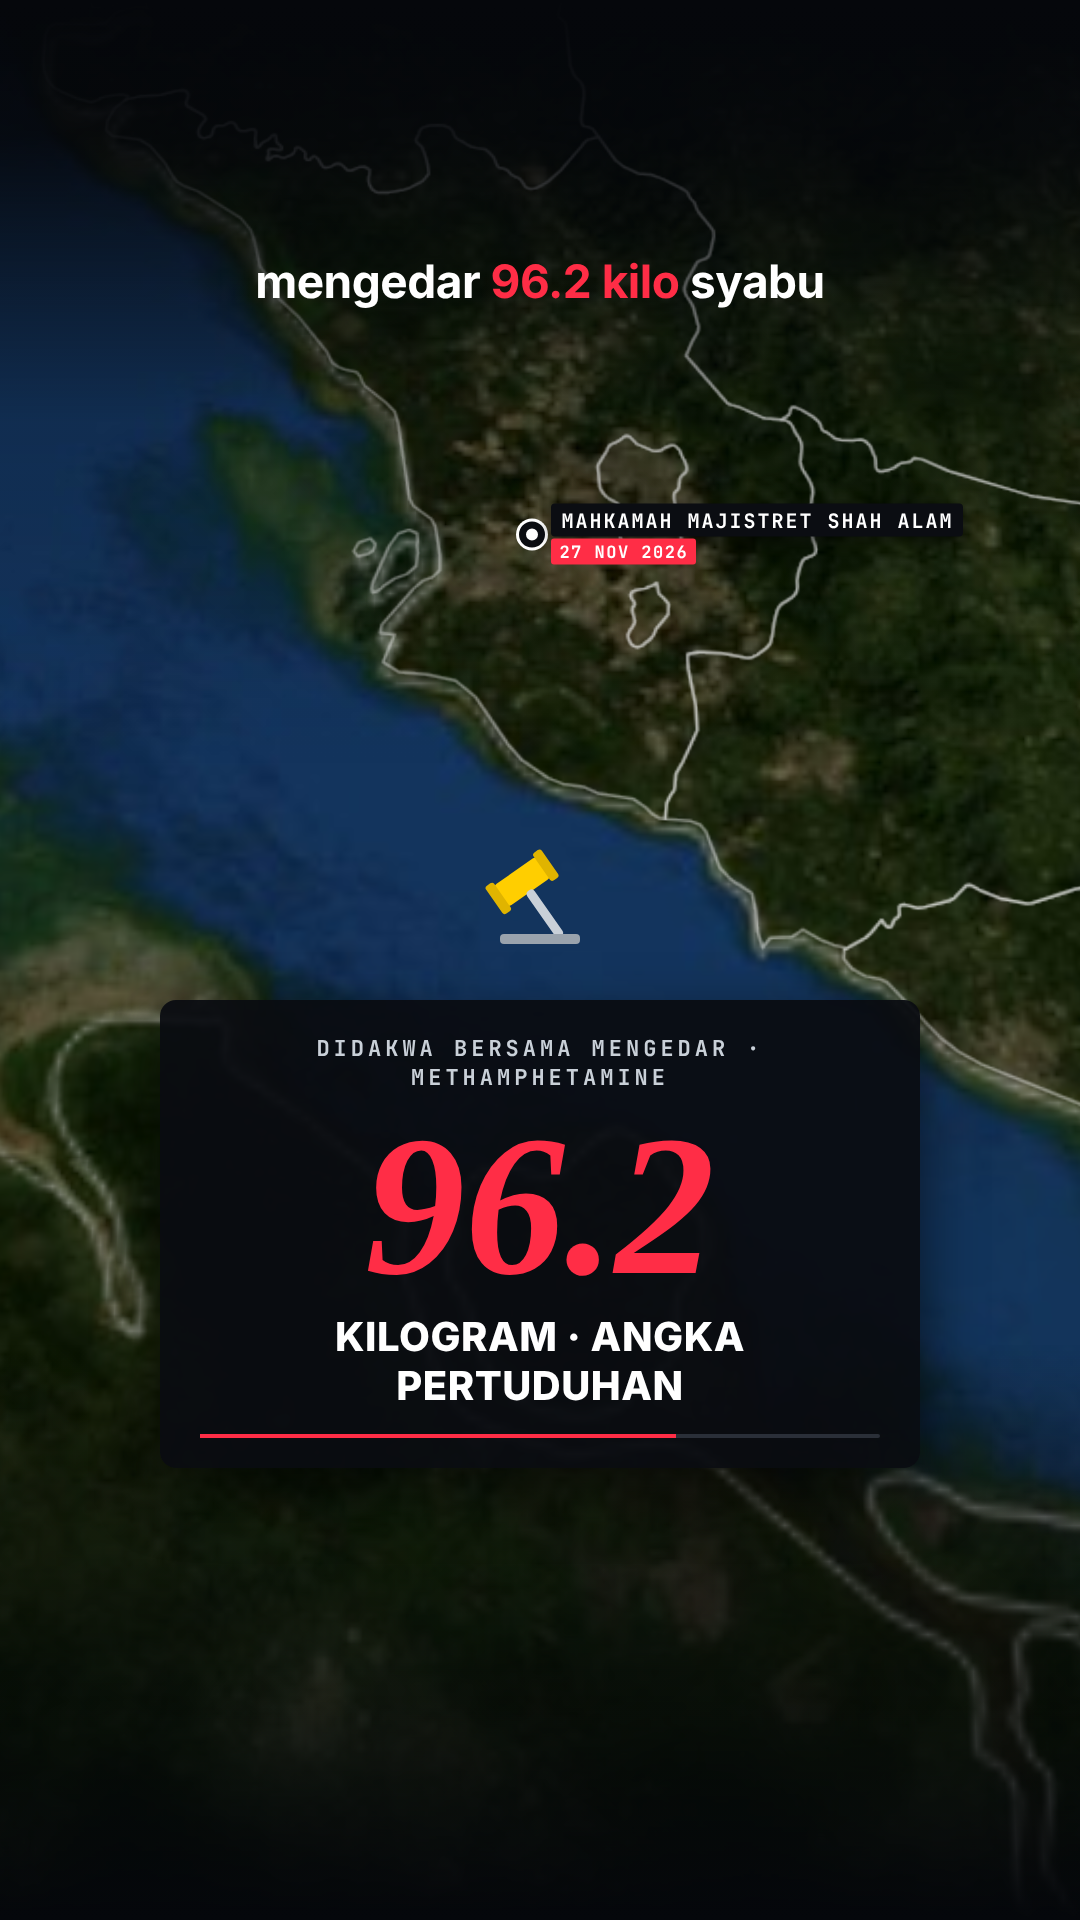
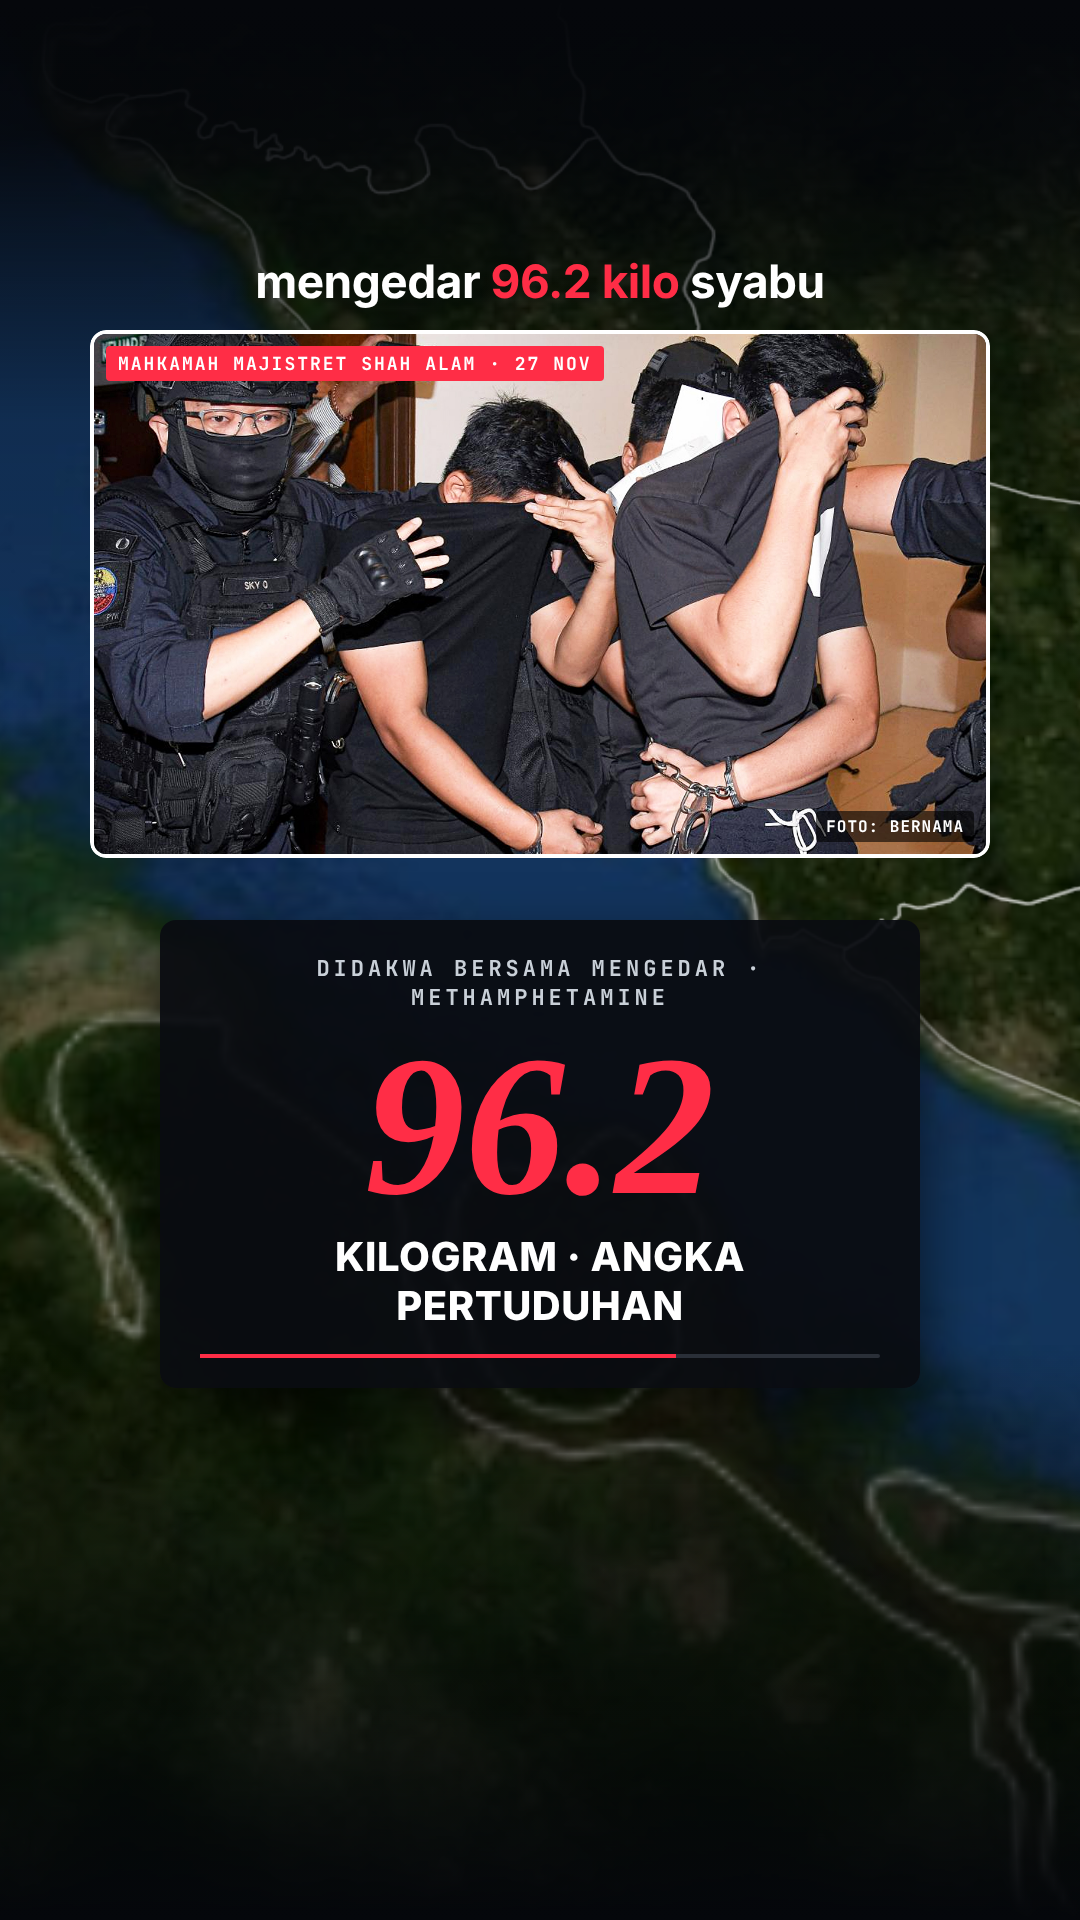
tudm2-video: court photo (Bernama via FMT) in frame 03
Claude-Session: https://claude.ai/code/session_01GRVCpWnEP2iq277DCmGmuq

Changed region(s): [[0.0611, 0.1562, 0.9167, 0.7812]]

diff --git a/tudm2-video/boards/storyboard.html b/tudm2-video/boards/storyboard.html
@@ -22,7 +22,7 @@ h1{font:800 46px Inter;letter-spacing:-1px}h1 span{color:#ff2d46}
 <div class="grid">
 <div class="f"><img src="frame-01.png"><div><div class="n">01 · 0:00</div><div class="t">Hook</div><div class="vo">"Kes syabu di pangkalan TUDM Subang. Sekarang, enam orang dah didakwa di mahkamah."</div><div class="fx">Glob junam ke Semenanjung, tag <b>PART 2</b>. Tajuk <b>6 / DIDAKWA</b> slam, nadi merah.</div></div></div>
 <div class="f"><img src="frame-02.png"><div><div class="n">02 · 0:05</div><div class="t">Imbas kembali</div><div class="vo">"Ingat lagi? 17 November, lima beg berbalut plastik… Polis tahan sebelas orang."</div><div class="fx">Zoom Subang. Kad kecil <b>5 beg</b> (X-ray oren) + grid <b>11 ikon</b> dari part 1. Laju, ~6 s.</div></div></div>
-<div class="f"><img src="frame-03.png"><div><div class="n">03 · 0:12</div><div class="t">Mahkamah</div><div class="vo">"Jumaat, 27 November, di Mahkamah Majistret Shah Alam, enam orang dituduh bersama mengedar 96.2 kilo syabu."</div><div class="fx">Kamera alih ke <b>Shah Alam</b>, pin mahkamah. Tukul hakim ketuk. Stat <b>96.2</b> count-up, "angka pertuduhan".</div></div></div>
+<div class="f"><img src="frame-03.png"><div><div class="n">03 · 0:12</div><div class="t">Mahkamah</div><div class="vo">"Jumaat, 27 November, di Mahkamah Majistret Shah Alam, enam orang dituduh bersama mengedar 96.2 kilo syabu."</div><div class="fx">Kamera alih ke <b>Shah Alam</b>. <b>Foto mahkamah</b> (Bernama, muka tertuduh tertutup) pop masuk dengan push perlahan, kredit "FOTO: BERNAMA". Stat <b>96.2</b> count-up, "angka pertuduhan".</div></div></div>
 <div class="f"><img src="frame-04.png"><div><div class="n">04 · 0:20</div><div class="t">Siapa</div><div class="vo">"Tiga pegawai TUDM: dua leftenan dan seorang kapten, 27 hingga 34 tahun. Tiga lagi, orang awam."</div><div class="fx">Grid 6 ikon: 3 kuning <b>LT·33 / LT·27 / KAPT·34</b>, 3 kelabu AWAM. <b>Tiada nama, tiada muka.</b></div></div></div>
 <div class="f"><img src="frame-05.png"><div><div class="n">05 · 0:27</div><div class="t">Pertuduhan</div><div class="vo">"Pertuduhan dibuat bawah Seksyen 39B Akta Dadah Berbahaya."</div><div class="fx">Cop <b>SEKSYEN 39B · ADB 1952</b>. Kad Media Selangor tajuk asal, highlight sapu.</div></div></div>
 <div class="f"><img src="frame-06.png"><div><div class="n">06 · 0:31</div><div class="t">Jika sabit</div><div class="vo">"Kalau sabit kesalahan, boleh dihukum mati, atau penjara 30 hingga 40 tahun."</div><div class="fx">Kad hukuman, kicker <b>JIKA SABIT KESALAHAN</b>. Tint merah. (Ikut pindaan 2023, bukan "seumur hidup".)</div></div></div>

diff --git a/tudm2-video/boards/frame.html b/tudm2-video/boards/frame.html
@@ -89,6 +89,10 @@ html,body{width:1080px;height:1920px;background:#05070b;overflow:hidden;font-fam
 .pen .o2{font:800 52px Inter;color:#fff}.pen .o2 b{font:italic 700 92px Serif;color:#ff2d46}
 .pen .ft2,.ppl .ft2{font:700 15px Mono;color:#8a929b;letter-spacing:1px;margin-top:18px}
 .bub{position:absolute;background:#fff;color:#111;font:700 32px Inter;padding:18px 26px;border-radius:26px 26px 26px 6px;box-shadow:0 14px 40px rgba(0,0,0,.5)}.bub.r{border-radius:26px 26px 6px 26px;background:#ffce00}
+.photo{position:absolute;left:90px;width:900px;border:4px solid #fff;border-radius:16px;overflow:hidden;box-shadow:0 30px 80px rgba(0,0,0,.7);clip-path:inset(0 round 16px)}
+.photo img{display:block;width:100%;height:520px;object-fit:cover;object-position:50% 30%;transform:scale(1.06)}
+.photo .cr{position:absolute;right:12px;bottom:12px;font:700 16px Mono;color:#fff;background:rgba(0,0,0,.6);padding:5px 10px;border-radius:4px;letter-spacing:1px}
+.photo .tg{position:absolute;left:12px;top:12px;font:700 18px Mono;color:#fff;background:#ff2d46;padding:6px 12px;border-radius:4px;letter-spacing:2px}
 .komen{position:absolute;left:0;right:0;top:1230px;text-align:center;font:800 44px Inter;color:#fff;letter-spacing:3px}
 </style></head><body>
 <canvas id="gl" width="1080" height="1920"></canvas>
@@ -260,9 +264,8 @@ const FR = {
     people(1110, "POLIS · 11 DITAHAN", [[5, "#ff2d46", "ANGGOTA TUDM"], [6, "#9aa3ad", "ORANG AWAM"]], "Lembah Klang & Labuan · menurut polis"); },
   3() { g.setView({ lat: 3.09, lon: 101.53, dist: 0.1, tilt: 22, yShift: 0.22 }); states(false);
     cap(`mengedar <span class="r">96.2 kilo</span> syabu`);
-    locPin(SHAHALAM[0], SHAHALAM[1], "MAHKAMAH MAJISTRET SHAH ALAM", "27 NOV 2026", true);
-    html(`<div style="position:absolute;left:480px;top:830px">${gavel}</div>`);
-    stat(1000, "DIDAKWA BERSAMA MENGEDAR · METHAMPHETAMINE", "96.2", "KILOGRAM · ANGKA PERTUDUHAN"); },
+    html(`<div class="photo" style="top:330px"><img src="../assets/photos/mahkamah-bernama.jpg"><div class="tg">MAHKAMAH MAJISTRET SHAH ALAM · 27 NOV</div><div class="cr">FOTO: BERNAMA</div></div>`);
+    stat(920, "DIDAKWA BERSAMA MENGEDAR · METHAMPHETAMINE", "96.2", "KILOGRAM · ANGKA PERTUDUHAN"); },
   4() { g.setView({ lat: 3.09, lon: 101.53, dist: 0.12, tilt: 22, yShift: 0.22 }); states(false);
     cap(`dua <span class="r">leftenan</span> dan seorang <span class="r">kapten</span>`);
     locPin(SHAHALAM[0], SHAHALAM[1], "SHAH ALAM", "", true);
